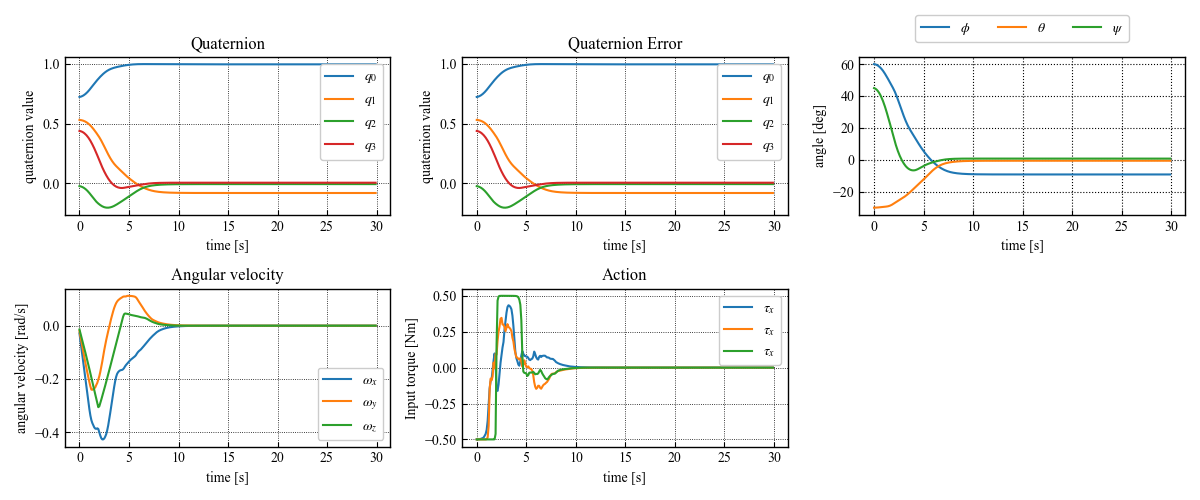
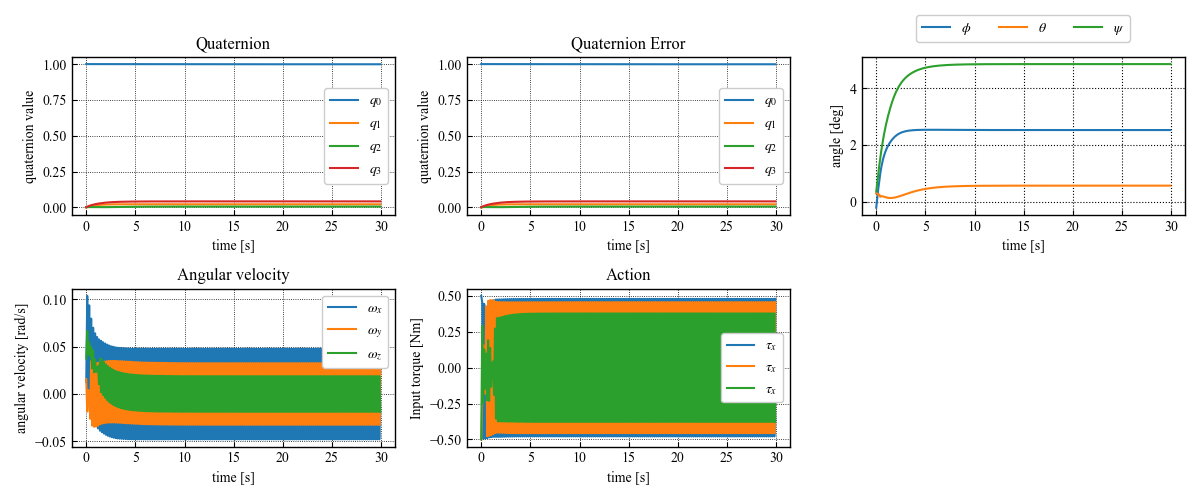
UPDATE: change reward

diff --git a/environment.py b/environment.py
@@ -220,9 +220,9 @@ class SatelliteContinuousEnv(gym.Env):
         #ステートアップデート（runge-kutta 法）
         k1 = self.omega_differential(omega,self.inertia_inv,self.inertia,action)
         k2 = self.omega_differential(omega + 0.5*self.dt*k1, self.inertia_inv,self.inertia,action)
-        k3 = self.omega_differential(omega + 0.5*self.dt*k2, self.i            if qe_new[0] >= self.angle_thre:
-                reward = -0.5*action@action
-                reward += np.array([1,-1,-1,-1])@np.power(qe,2)
+        k3 = self.omega_differential(omega + 0.5*self.dt*k2, self.inertia_inv,self.inertia,action)
+        k4 = self.omega_differential(omega + self.dt*k3, self.inertia_inv,self.inertia,action)
+
         l1 = self.quaternion_differential(omega, q) 
         l2 = self.quaternion_differential(omega + 0.5*self.dt*k1, q + 0.5*self.dt*l1)
         l3 = self.quaternion_differential(omega + 0.5*self.dt*k2, q + 0.5*self.dt*l2)
@@ -256,7 +256,7 @@ class SatelliteContinuousEnv(gym.Env):
             self.r3 = self.action_weight*action@action
             reward = -(self.r1 + self.r2 + self.r3) 
             if qe_new[0] >= self.angle_thre:
-                # reward = -0.5*action@action
+                reward = -0.2*action@action
                 reward += np.array([1,-1,-1,-1])@np.power(qe_new,2)
             # else:
             #     if qe_new[0] > qe[0]:
